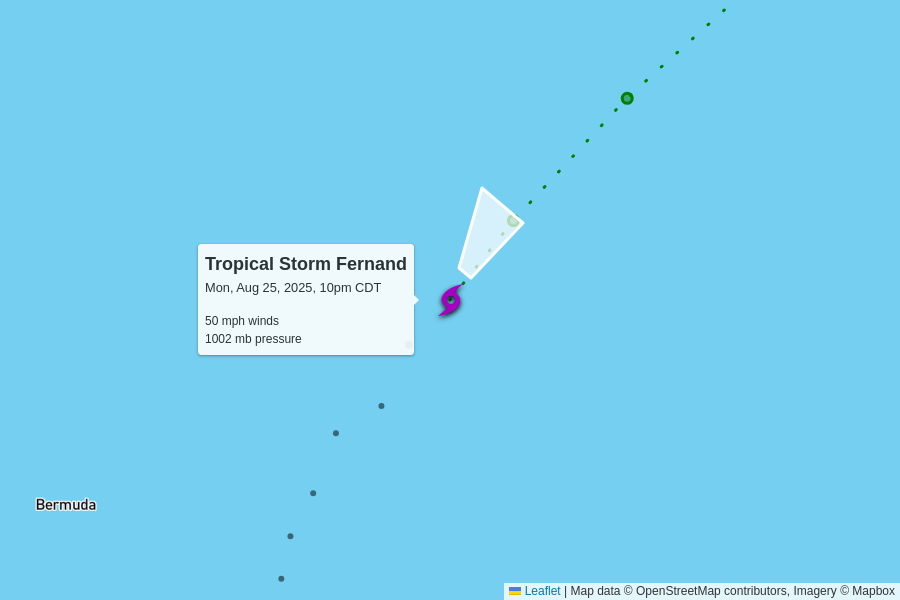
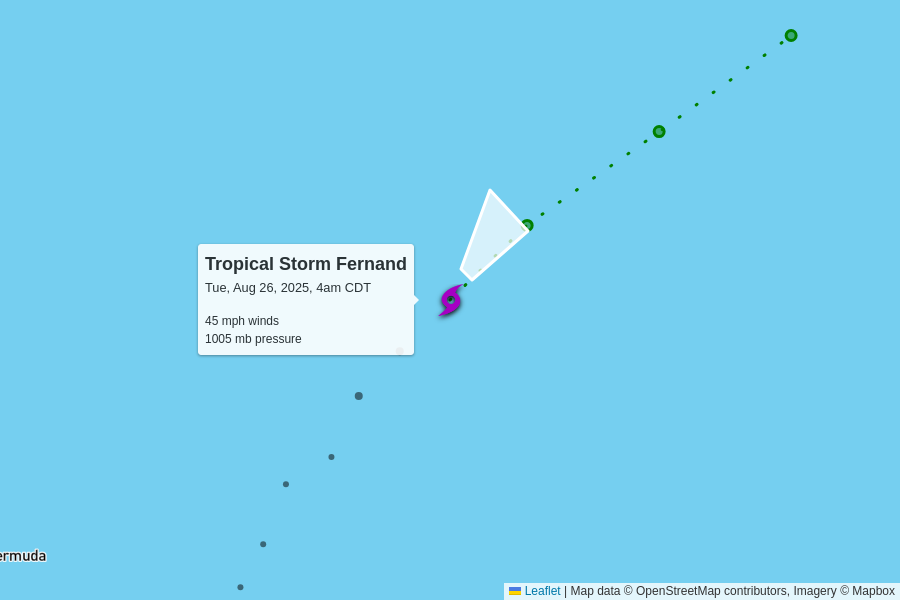
automatic update

diff --git a/docs/index.html b/docs/index.html
@@ -102,7 +102,7 @@
         <td colspan="6" class="storm category-0" >
           <h2>
             Tropical Storm Fernand
-            <p class="updated">last updated <span data-time>2025-08-26T03:00:00.000Z</span></p>
+            <p class="updated">last updated <span data-time>2025-08-26T09:00:00.000Z</span></p>
           </h2>
         </td>
       </tr>
@@ -117,12 +117,12 @@
       </tr>
       <tr>
         <td class="spacer"></td>
-        <td>50 mph<br>-10 mph since last update</td>
-        <td>1002 mb<br>+2 mb since last update</td>
+        <td>45 mph<br>-5 mph since last update</td>
+        <td>1005 mb<br>+3 mb since last update</td>
         <td>
-          13 mph to the northeast
+          14 mph to the northeast
           <br/>
-          <span style="display: inline-block; font-size: 1.5em; transform: rotate(35deg);">↑</span>
+          <span style="display: inline-block; font-size: 1.5em; transform: rotate(40deg);">↑</span>
         </td>
         <td><a href="https://raw.githubusercontent.com/mgwalker/atlantic-hurricanes/main/data/csv/AL062025.csv">AL062025.csv</a></td>
         <td><a href="https://www.nhc.noaa.gov/archive/2025/FERNAND.shtml?">NHC advisories</a></td>
